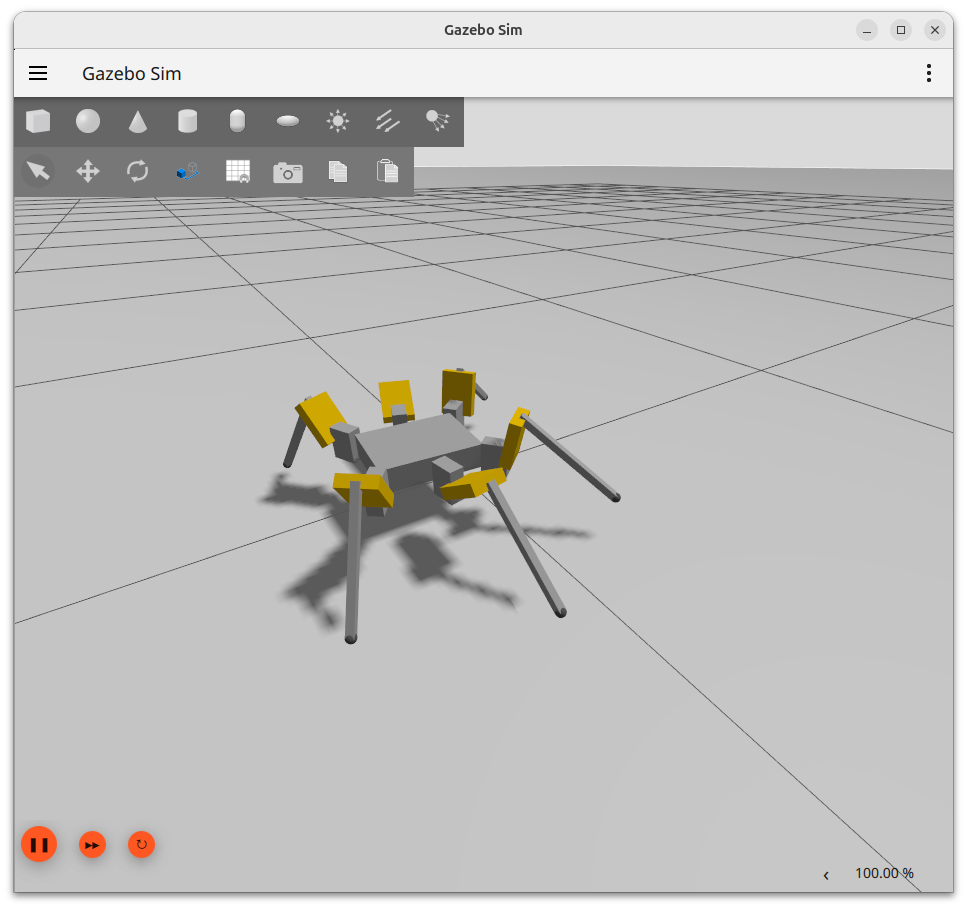
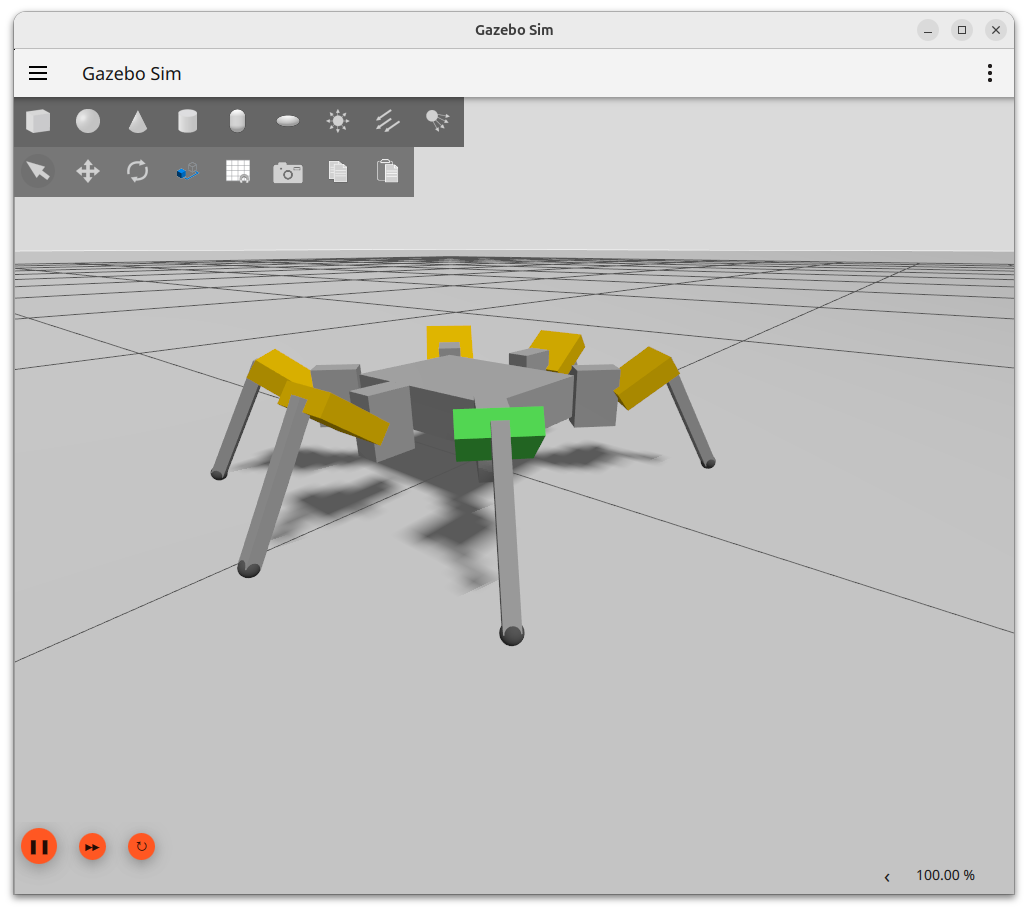
docs: Haupt-README HW-Refresh + Fotos (Hero, Rubicon CC-BY-4.0, Rampe), Worlds-Block, C_teleop H2-Nachzug

diff --git a/README.md b/README.md
@@ -1,18 +1,31 @@
 # Hexapod
 
-A six-legged walking robot (18 servos) — fully simulated in **ROS 2 Jazzy** + **Gazebo Harmonic**
-and portable 1:1 to real hardware (Servo2040 + Raspberry Pi) via `ros2_control`. Omnidirectional
-walking, multiple gaits, switchable stance heights, sit/stand sequences, free-leg "show" poses, and
+A six-legged walking robot (18 servos) — built in **ROS 2 Jazzy** + **Gazebo Harmonic** and
+running **1:1 on real hardware** (Servo2040 + Raspberry Pi 5) via `ros2_control`. Omnidirectional
+walking, multiple gaits, validated stance & speed presets, IMU-based body leveling and tip-over
+protection, foot-contact terrain adaptation, sit/stand sequences, free-leg "show" poses, and
 PS4 control (USB + Bluetooth).
 
 <p align="center">
+  <img src="docs/images/hexapod_outside.png" alt="The hexapod outdoors on grass" width="700"/>
+</p>
+<p align="center"><sub>The real robot — 18 servos, Raspberry Pi 5 + Servo2040, foot switches, BNO-055 IMU</sub></p>
+
+<p align="center">
+  <img src="docs/images/rubicon.png" alt="Hexapod in the Rubicon rough-terrain world (Gazebo)" width="700"/>
+</p>
+<p align="center"><sub>Rough-terrain simulation — terrain model "Rubicon" © Open Robotics, <a href="https://creativecommons.org/licenses/by/4.0/">CC BY 4.0</a>, via Gazebo Fuel</sub></p>
+
+<p align="center">
   <img src="docs/images/gazebo_sim.png" alt="Gazebo simulation" height="400"/>
+  &nbsp;
+  <img src="docs/images/gazebo_ramp.png" alt="Ramp world (slope walking)" height="400"/>
   &nbsp;
   <img src="docs/images/rviz.png" alt="RViz (model + TF)" height="400"/>
   &nbsp;
   <img src="docs/images/rviz_reachability.png" alt="Reachability visualization" height="400"/>
 </p>
-<p align="center"><sub>Gazebo simulation &nbsp;·&nbsp; RViz (model + TF) &nbsp;·&nbsp; per-leg reachability visualization</sub></p>
+<p align="center"><sub>Gazebo simulation &nbsp;·&nbsp; ramp world (slope walking) &nbsp;·&nbsp; RViz (model + TF) &nbsp;·&nbsp; per-leg reachability visualization</sub></p>
 
 <!-- TODO: add a YouTube demo as a clickable thumbnail (GitHub can't embed a player):
      [![Watch the demo](docs/images/video-thumbnail.png)](https://youtu.be/YOUR_VIDEO_ID) -->
@@ -24,14 +37,26 @@ PS4 control (USB + Bluetooth).
 
 - **Omnidirectional walking** via `/cmd_vel` — forward/back, strafe, turn, arcs (analog, proportional).
 - **4 gaits**, switchable on the fly: tripod, wave, tetrapod, ripple.
-- **3 validated stance heights** (high/mid/low), switchable while standing (coupled reposition + height lerp).
+- **3 validated stance modes** (low/mid/high body height), switchable while standing (coupled
+  reposition + height lerp). Each mode couples an offline-validated **step height** and
+  **max step length** — values above the per-mode cap are rejected (keeps every combination
+  inside the leg envelope instead of freezing on hardware).
+- **4 speed presets** (slow / mid / fast / aggressive) on the D-pad — gait cycle time +
+  stick scaling, envelope-neutral by design.
+- **IMU balance (BNO-055):** body leveling with per-axis PI-D control, terrain following
+  (pitch follows the slope, roll levels to zero) and tip-over detection → safety freeze —
+  **verified on the real robot**.
+- **Foot-contact terrain adaptation** (6 foot switches on hardware, Gazebo contacts in sim):
+  per-foot adaptive touchdown and adaptive stand on uneven ground, slip/edge detection →
+  safety freeze, sensor-fault masking (degrade, don't stop).
 - **Sit / stand / shutdown** as clean sequences (graceful power-off, comms-loss fail-safe).
 - **Free-leg "show" pose:** support on 4 legs, 2 front legs steered freely by joystick (incl. tibia reach).
 - **PS4 teleop:** USB **and** Bluetooth — omnidirectional sticks, dead-man, intent services.
-- **Sim ↔ hardware identical:** the same high-level code runs in Gazebo and on the real servos
-  (`ros2_control` abstraction, plugin chosen by a launch argument).
+- **Sim ↔ hardware identical — proven:** the same high-level code runs in Gazebo and on the
+  real servos (`ros2_control` abstraction, plugin chosen by a launch argument); the full
+  locomotion stack has been walking on the physical robot.
 - **Pure-Python closed-form IK/FK** (testable without ROS) + offline validation tools
-  (reach / CoG / torque analysis).
+  (reach / joint margins / CoG / torque, incl. a transition-coverage engine check).
 
 ## Hardware (target platform)
 
@@ -67,10 +92,38 @@ source install/setup.bash
 
 Each step in its own terminal (`source install/setup.bash` in each):
 
-**1 — Gazebo** (physics + the robot):
+**1 — Gazebo** (physics + the robot; empty world):
 ```bash
 ros2 launch hexapod_bringup sim.launch.py
 ```
+
+<details>
+<summary><b>Worlds</b> — obstacle / terrain variants (instead of <code>sim.launch.py</code>; all spawn the robot on flat ground)</summary>
+
+```bash
+ros2 launch hexapod_bringup step.launch.py step_drop:=-0.02   # step (+ = down, − = climb up)
+ros2 launch hexapod_bringup trench.launch.py                  # foot-wide gap (per-foot reach demo)
+ros2 launch hexapod_bringup ramp.launch.py slope_deg:=8.0     # flat → slope → plateau
+ros2 launch hexapod_bringup rubicon.launch.py                 # rough terrain (Gazebo Fuel, see note)
+```
+
+One-command variants (world **+** gait stack together, replaces steps 1+3):
+`step_walk.launch.py`, `trench_walk.launch.py` (same arguments).
+
+For terrain worlds, enable the foot-contact features (live, extra terminal):
+```bash
+ros2 param set /gait_node adaptive_touchdown_enable true
+ros2 param set /gait_node adaptive_stand_enable true
+```
+
+> **Rubicon terrain:** streamed from [Gazebo Fuel](https://app.gazebosim.org/OpenRobotics/fuel/models/Rubicon),
+> not part of this repo — model *"Rubicon"* © Open Robotics, licensed
+> [CC BY 4.0](https://creativecommons.org/licenses/by/4.0/). Cache it once before first use:
+> ```bash
+> gz fuel download -u "https://fuel.gazebosim.org/1.0/OpenRobotics/models/Rubicon"
+> ```
+
+</details>
 
 **2 — RViz** (optional — ROS-side view; the `-d` config loads the robot model + TF
 automatically, no manual "Add" needed):
@@ -134,18 +187,27 @@ ros2 topic list                                 # /cmd_vel, /cmd_show, /joint_st
 | **Right stick X** | Turn (yaw) | hold R1 |
 | **R1** (hold) | **Dead-man** — motion only while held | safety, required |
 | **L1** (hold) | Slow / precise — half speed | teleop-local |
-| **L2 / R2** (without R1) | **Stance height** down / up (low ↔ mid ↔ high) | reposition + height lerp; STANDING only |
+| **L2 / R2** (without R1) | **Stance mode** down / up (low ↔ mid ↔ high) | reposition + height lerp; STANDING only |
 | **D-pad ←/→** | **Gait** cycle (tripod → wave → tetrapod → ripple) | STANDING only |
-| **D-pad ↑/↓** | **Step length** (max) bigger / smaller | 0.02–0.089 m, 0.01 steps |
+| **D-pad ↑/↓** | **Speed preset** faster / slower (slow · mid · fast · aggressive) | cycle time + stick scales; STANDING only |
 | **△ Triangle** | **Sit / stand** toggle | resolved by robot state |
 | **○ Circle** (long-press) | **Shutdown** (sit down + relay off) | deliberate, terminal |
 | **✕ Cross** (long-press) | Enter / leave **show pose** | |
 | **In show + R1 — left / right stick** | Move front legs leg_6 / leg_1: X = sideways, Y = up/down | SHOW_ACTIVE only |
 | **In show + R1 — L2 / R2** | **Tibia reach** leg_6 / leg_1 (extend leg, tibia opens up) | SHOW_ACTIVE only |
 
-**Stance heights** (cycled with L2/R2): `high` (−0.140 m) · `mid` (−0.100 m, boot default) · `low` (−0.070 m).
-Full reference (stance values, gait × height stability sweet-spots, axis/sign tuning):
-[`project_finalization/C_teleop.md`](project_finalization/C_teleop.md).
+**Stance modes** (cycled with L2/R2) — each couples body height, step height and max step length
+(all offline-gate-validated; higher values are rejected):
+
+| Mode | Body height | Step height | Max step length | Character |
+|---|---|---|---|---|
+| `low` | −0.065 m | 0.04 m | 0.06 m | crouched, sneaking |
+| `mid` (boot) | −0.080 m | 0.05 m | 0.08 m | speed mode |
+| `high` | −0.100 m | 0.08 m | 0.05 m | terrain mode (high swing, short strides) |
+
+Full reference (controller mapping, gait × stride stability sweet-spots, axis/sign tuning):
+[`project_finalization/C_teleop.md`](project_finalization/C_teleop.md); tuning details live in the
+package READMEs ([`hexapod_gait`](src/hexapod_gait/README.md), [`hexapod_teleop`](src/hexapod_teleop/README.md)).
 
 ## Packages
 
@@ -156,8 +218,8 @@ Full reference (stance values, gait × height stability sweet-spots, axis/sign t
 | `hexapod_control` | `ros2_control` config (`controllers.yaml` + `controllers.real.yaml`: JSB + 6 JTC) |
 | `hexapod_bringup` | `sim.launch.py` + `real.launch.py` (sim ↔ HW via `use_sim`) |
 | `hexapod_kinematics` | Pure-Python IK/FK + joint-limit check |
-| `hexapod_sensors` | Gazebo→ROS foot-contact adapter |
-| `hexapod_gait` | Gait engine + `gait_node` (state machine: stand/walk/stop/sit/standup/reposition/show/stance-switch), gaits, stance modes |
+| `hexapod_sensors` | Gazebo→ROS foot-contact adapter (sim) + BNO-055 IMU node (hardware, I²C) |
+| `hexapod_gait` | Gait engine + `gait_node` (state machine: stand/walk/stop/sit/standup/reposition/show/stance-switch), gaits, stance & speed presets, IMU leveling/tip monitor, foot-contact terrain adaptation (adaptive touchdown/stand, slip freeze) |
 | `hexapod_teleop` | PS4 USB + Bluetooth → `/cmd_vel` + `/cmd_show` + intent services |
 | `hexapod_hardware` | C++ `HardwareInterface` (pluginlib), Servo2040 USB-CDC |
 
@@ -165,8 +227,11 @@ Full reference (stance values, gait × height stability sweet-spots, axis/sign t
 
 | Tool | Purpose |
 |---|---|
-| `walking_envelope_check.py` | Offline walking-envelope check (in-reach / in-limit over radial × height × step length × lift) |
+| `walking_envelope_check.py` | Offline walking-envelope **gate**: reach + joint-margin threshold, leveling coverage, adaptive-touchdown probe floor; `engine-check` subcommand = transition coverage (walk start, direction changes, stance switch, sit/stand) |
 | `standup_envelope_check.py` | Kinematic check of the stand-up / reposition path |
+| `leveling_envelope_check.py` | Max safe body-leveling angles vs IK / joint limits |
+| `stand_conform_envelope_check.py` | Adaptive-stand floor depth per stance mode |
+| `apex_meter.py` | Live FK foot-lift measurement — commanded vs real swing apex on hardware |
 | `show_pose_cog_check.py` | Show support pose: CoG margin + front-leg reach |
 | `torque_sweep.py` | Joint holding torques / heat utilization (CoG-based load model) |
 | `hexapod-shell-aliases.sh` | Opt-in bash aliases: save/load calibration, walking presets |
@@ -187,9 +252,11 @@ Full reference (stance values, gait × height stability sweet-spots, axis/sign t
 
 ## Status
 
-Sim phases (0–6) and hardware bench (7, 9–11) done; locomotion, teleop, stance modes and the show
-pose are complete in simulation. **Next up:** hardware bring-up — Pi platform (phase 12) + electronics
-(phase 8). Details: [`PHASE.md`](PHASE.md).
+Sim phases (0–6), hardware bench (7, 9–11) and the Pi 5 platform (12) are done — **the robot walks
+on real hardware**: all 18 servos calibrated, IMU body leveling + tip protection and the
+foot-contact pipeline (adaptive touchdown, slip freeze) verified live, stance & speed presets in
+the field. **Next up:** electronics finalization (2S LiPo supply, phase 8), untethered operation,
+then the full bring-up (phase 13). Details: [`PHASE.md`](PHASE.md).
 
 ## License
 

diff --git a/project_finalization/C_teleop.md b/project_finalization/C_teleop.md
@@ -36,7 +36,10 @@ Sicherheits-/State-Logik lebt an EINER Stelle.
 Daraus folgt:
 - **Sit/Stand:** Teleop ruft **einen** Toggle-Intent; `gait_node` löst nach State auf.
 - **Gangart-Wechsel:** Teleop ruft „nächste Gangart"-Intent; `gait_node` cyclet + prüft STANDING.
-- **Schrittweite:** Teleop ruft „größer/kleiner"-Intent; `gait_node` clampt.
+- **Tempo (H2, ersetzt das frühere Schrittweiten-Binding):** Teleop cyclet die Tempo-Presets
+  (`_TEMPO_MODES`) — `cycle_time` via Param-Client an den `gait_node` (dessen standing_only-Guard
+  entscheidet), Scales lokal. Der Schrittweiten-Service `/hexapod_adjust_step_length` bleibt
+  (ohne Controller-Taste); `step_length_max` ist seit H2 pro Stance-Modus gedeckelt.
 - **Höhe:** bleibt das bestehende `/cmd_body_height`-Topic (gait_node clampt + ignoriert ≠STANDING).
 - **Fahren:** `/cmd_vel` (Engine clampt/State-gated). **Shutdown:** bestehender B1-Service.
 
@@ -57,23 +60,28 @@ Daraus folgt:
 | **Show: L-Stick / R-Stick** (mit R1) | Vorderbeine **leg_6 / leg_1** bewegen: X=seitwärts, Y=hoch/runter | nur in SHOW_ACTIVE; `/cmd_show`; geclampt auf URDF-Limits | B4 |
 | **Show: L2 / R2** (mit R1) | **Tibia-Reach** leg_6 / leg_1 (Bein strecken, Tibia fährt auf) | nur in SHOW_ACTIVE; `/cmd_show` radial | B4.11 |
 | **D-Pad ←/→** | **Gangart** durchschalten (tripod→wave→tetrapod→ripple) | Intent `/hexapod_cycle_gait`; nur STANDING | C2 |
-| **D-Pad ↑/↓** | **Schrittweite** (`step_length_max`) größer/kleiner | Intent; gait_node clampt; ändert Stride + Top-Speed | C2 |
+| **D-Pad ↑/↓** | **Tempo-Preset** schneller/langsamer (langsam·mittel·schnell·aggressiv) | H2 (umgewidmet von Schrittweite): `cycle_time` am gait_node + joy-Scales; nur STANDING (gait-Guard) | H2 |
 | Rechter Stick Y | im Show = **leg_1 hoch/runter** (s. Zeile „Show: R-Stick"); sonst frei | `axis_ry` | B4 |
 | **□ Square** | reserviert (z.B. Gangart-Reset auf tripod) | — | später |
 
-**Tempo:** Dosierung über Stick-Auslenkung (analog) + L1=langsam; „weiter/schneller laufen" über
-Schrittweite (D-Pad ↑/↓). Keine separate Tempo-Stufe nötig (User 2026-06-03).
+**Tempo:** Dosierung über Stick-Auslenkung (analog) + L1=langsam; die **Stufe** über die
+Tempo-Presets (D-Pad ↑/↓). _(Historie: „keine separate Tempo-Stufe nötig" (User 2026-06-03)
+wurde in Block H2 revidiert — 4 Presets über cycle_time + Scales, envelope-frei;
+Doku: [`H2_speed_presets_plan.md`](H2_speed_presets_plan.md).)_
 
 ### 1a. Einstellungen, die man verstellen kann (Referenz)
 
 **Stance-Modi (Höhen)** — fest validierte Posen, per L2/R2 (ohne R1) umgeschaltet. Werte real-engine-
-validiert (Plan [`stance_modes_plan.md`](stance_modes_plan.md)):
+validiert (Plan [`stance_modes_plan.md`](stance_modes_plan.md)); seit **H1/H2** trägt jeder Modus
+zusätzlich per-Modus-`step_height` + `step_length_max` (Tabellenwert = Deckel, darüber Reject —
+Gate-Doku: [`H1_step_height_modes_progress.md`](H1_step_height_modes_progress.md) +
+[`H2_speed_presets_progress.md`](H2_speed_presets_progress.md)):
 
-| Modus | body_height | radial | step_height | Hinweis |
-|---|---|---|---|---|
-| **hoch** | −0.100 m | 0.160 m | 0.040 m | direkt aufstehbar (einheitl. Radius) |
-| **mittel** | −0.080 m | 0.160 m | 0.040 m | **Boot-/Standup-Basis** |
-| **tief** | −0.065 m | 0.160 m | 0.040 m | geduckt |
+| Modus | body_height | radial | step_height (H1) | step_length_max (H2) | Hinweis |
+|---|---|---|---|---|---|
+| **hoch** | −0.100 m | 0.160 m | 0.080 m | 0.050 m | Terrain-Modus (hoher Schwung, kurze Schritte) |
+| **mittel** | −0.080 m | 0.160 m | 0.050 m | 0.080 m | **Boot-/Standup-Basis**, Speed-Modus |
+| **tief** | −0.065 m | 0.160 m | 0.040 m | 0.060 m | geduckt |
 
 > **leg_changes/S5+S6 (kürzere Beine):** einheitlicher WALK-Radius 0.160 über alle
 > Höhen. Das Aufstehen/Hinsetzen läuft am breiten `standup_radial` **0.20**
@@ -84,9 +92,10 @@ validiert (Plan [`stance_modes_plan.md`](stance_modes_plan.md)):
 
 | Parameter | Eingabe | Bereich | Schritt | Wirkung |
 |---|---|---|---|---|
-| Stance-Modus | **L2 / R2** (ohne R1) | tief · mittel · hoch | 1 Stufe (clamp) | nur Höhe (Walk-radial einheitlich 0.160; Aufstehen/Hinsetzen breit @ 0.20 + Reposition) |
+| Stance-Modus | **L2 / R2** (ohne R1) | tief · mittel · hoch | 1 Stufe (clamp) | Höhe + gekoppelte sh/sl aus der Tabelle (Walk-radial einheitlich 0.160; Aufstehen/Hinsetzen breit @ 0.20 + Reposition) |
 | Gangart | **D-Pad ←/→** | tripod · wave · tetrapod · ripple | 1 Stufe (cyclt) | nur in STANDING |
-| Schrittweite `step_length_max` | **D-Pad ↑/↓** | **0.030 – 0.070 m** (Start 0.050) | **0.010 m** | max. Tempo = step_length / stance_dur; Stride skaliert stufenlos mit Stick |
+| Tempo-Preset (H2) | **D-Pad ↑/↓** | langsam · mittel · schnell (Boot) · aggressiv | 1 Stufe (clamp) | cycle_time (gait) + Scales (teleop); nur STANDING; Werte: `_TEMPO_MODES` in `joy_to_twist.py` |
+| Schrittweite `step_length_max` | Service `/hexapod_adjust_step_length` (keine Taste mehr) | 0.030 m – **Modus-Deckel** (tief 0.06 / mittel 0.08 / hoch 0.05) | 0.010 m | max. Tempo = step_length / stance_dur; Stride skaliert stufenlos mit Stick |
 | Fahr-Tempo | L-Stick / R-Stick X (+ **L1** langsam) | 0 … Max | analog | dosiert; clamp bei > max-leg-speed (Log-WARN ist normal) |
 
 > Tieferes Tuning (Show-Skalen, Dauern, Switch-step_height usw.) per `ros2 param set /gait_node …` —

diff --git a/project_finalization/H2_speed_presets_test_commands.md b/project_finalization/H2_speed_presets_test_commands.md
@@ -193,6 +193,10 @@ ros2 launch hexapod_gait gait.launch.py use_sim_time:=false \
 # ── Terminal 3 (Pi): Teleop ──
 cd ~/hexapod_ws && source /opt/ros/jazzy/setup.bash && source install/setup.bash
 ros2 launch hexapod_teleop joy_teleop.launch.py controller:=ps4_bt
+
+
+ros2 param set /gait_node step_height 0.08     # ERWARTET: Set parameter failed (mittel-Deckel 0.05)
+
 ```
 
 **Ablauf:**